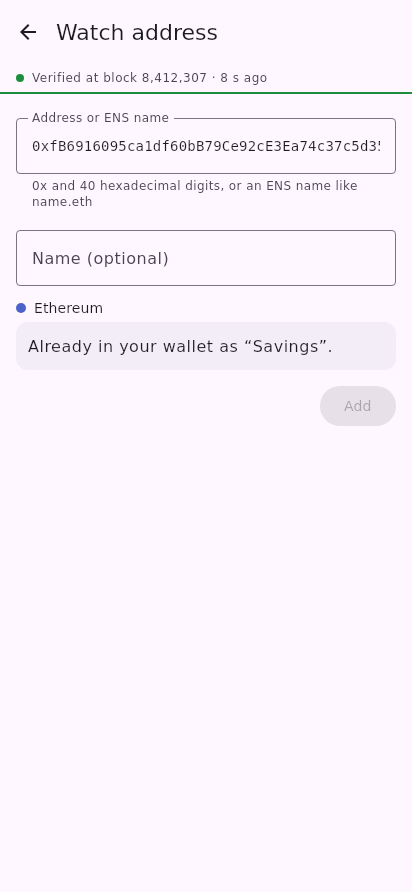
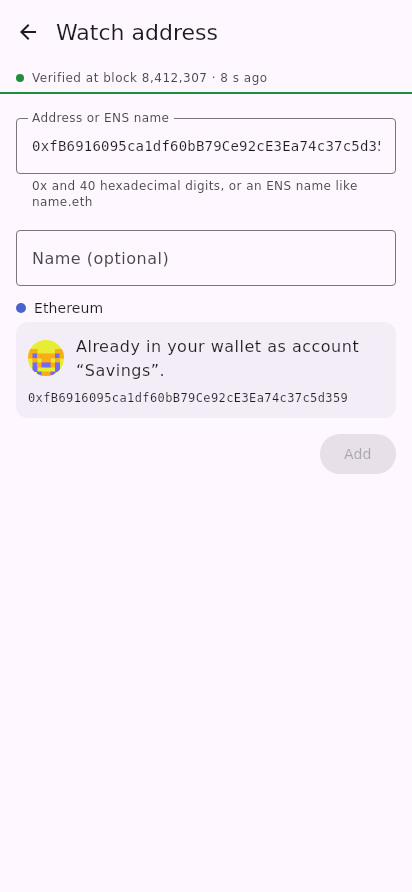
Screenshots: 4 added, 1 changed, 0 removed
Rendered by the Screenshots workflow from c5fe54837879731fa81c471fa319f875c5f10d46. Every other screen draws the same pixels.

Renderer: ubuntu26 20261111.196.1, openjdk version "21.0.13" 2026-10-20 LTS

Changed region(s): [[0.0583, 0.3632, 0.8738, 0.454], [0.8447, 0.454, 0.9029, 0.5146]]

diff --git a/docs/screenshots/index.html b/docs/screenshots/index.html
@@ -71,7 +71,7 @@ figcaption { font: .75rem/1.3 monospace; text-align: center; word-break: break-w
 </div>
 </section>
 <section id="accounts">
-<h2>Accounts <small>accounts/ · 35 states</small></h2>
+<h2>Accounts <small>accounts/ · 37 states</small></h2>
 <div class="shots">
 <figure><a href="accounts/accounts.png"><img src="accounts/accounts.png" loading="lazy" alt="accounts"></a><figcaption>accounts</figcaption></figure>
 <figure><a href="accounts/accounts-dark.png"><img src="accounts/accounts-dark.png" loading="lazy" alt="accounts-dark"></a><figcaption>accounts-dark</figcaption></figure>
@@ -79,6 +79,8 @@ figcaption { font: .75rem/1.3 monospace; text-align: center; word-break: break-w
 <figure><a href="accounts/head-too-old.png"><img src="accounts/head-too-old.png" loading="lazy" alt="head-too-old"></a><figcaption>head-too-old</figcaption></figure>
 <figure><a href="accounts/head-too-old-dark.png"><img src="accounts/head-too-old-dark.png" loading="lazy" alt="head-too-old-dark"></a><figcaption>head-too-old-dark</figcaption></figure>
 <figure><a href="accounts/no-accounts.png"><img src="accounts/no-accounts.png" loading="lazy" alt="no-accounts"></a><figcaption>no-accounts</figcaption></figure>
+<figure><a href="accounts/no-accounts-syncing.png"><img src="accounts/no-accounts-syncing.png" loading="lazy" alt="no-accounts-syncing"></a><figcaption>no-accounts-syncing</figcaption></figure>
+<figure><a href="accounts/no-accounts-syncing-dark.png"><img src="accounts/no-accounts-syncing-dark.png" loading="lazy" alt="no-accounts-syncing-dark"></a><figcaption>no-accounts-syncing-dark</figcaption></figure>
 <figure><a href="accounts/create-safe-greyed-out.png"><img src="accounts/create-safe-greyed-out.png" loading="lazy" alt="create-safe-greyed-out"></a><figcaption>create-safe-greyed-out</figcaption></figure>
 <figure><a href="accounts/create-safe-reason.png"><img src="accounts/create-safe-reason.png" loading="lazy" alt="create-safe-reason"></a><figcaption>create-safe-reason</figcaption></figure>
 <figure><a href="accounts/send-reason.png"><img src="accounts/send-reason.png" loading="lazy" alt="send-reason"></a><figcaption>send-reason</figcaption></figure>
@@ -664,7 +666,7 @@ figcaption { font: .75rem/1.3 monospace; text-align: center; word-break: break-w
 </div>
 </section>
 <section id="simple-accounts">
-<h2>Home (simple mode) <small>simple-accounts/ · 16 states</small></h2>
+<h2>Home (simple mode) <small>simple-accounts/ · 17 states</small></h2>
 <div class="shots">
 <figure><a href="simple-accounts/everyday.png"><img src="simple-accounts/everyday.png" loading="lazy" alt="everyday"></a><figcaption>everyday</figcaption></figure>
 <figure><a href="simple-accounts/everyday-dark.png"><img src="simple-accounts/everyday-dark.png" loading="lazy" alt="everyday-dark"></a><figcaption>everyday-dark</figcaption></figure>
@@ -674,6 +676,7 @@ figcaption { font: .75rem/1.3 monospace; text-align: center; word-break: break-w
 <figure><a href="simple-accounts/live.png"><img src="simple-accounts/live.png" loading="lazy" alt="live"></a><figcaption>live</figcaption></figure>
 <figure><a href="simple-accounts/stale-anchor.png"><img src="simple-accounts/stale-anchor.png" loading="lazy" alt="stale-anchor"></a><figcaption>stale-anchor</figcaption></figure>
 <figure><a href="simple-accounts/empty.png"><img src="simple-accounts/empty.png" loading="lazy" alt="empty"></a><figcaption>empty</figcaption></figure>
+<figure><a href="simple-accounts/empty-syncing.png"><img src="simple-accounts/empty-syncing.png" loading="lazy" alt="empty-syncing"></a><figcaption>empty-syncing</figcaption></figure>
 <figure><a href="simple-accounts/loading.png"><img src="simple-accounts/loading.png" loading="lazy" alt="loading"></a><figcaption>loading</figcaption></figure>
 <figure><a href="simple-accounts/set-aside.png"><img src="simple-accounts/set-aside.png" loading="lazy" alt="set-aside"></a><figcaption>set-aside</figcaption></figure>
 <figure><a href="simple-accounts/list-unavailable.png"><img src="simple-accounts/list-unavailable.png" loading="lazy" alt="list-unavailable"></a><figcaption>list-unavailable</figcaption></figure>
@@ -961,7 +964,7 @@ figcaption { font: .75rem/1.3 monospace; text-align: center; word-break: break-w
 </div>
 </section>
 <section id="watch">
-<h2>Watch address <small>watch/ · 25 states</small></h2>
+<h2>Watch address <small>watch/ · 26 states</small></h2>
 <div class="shots">
 <figure><a href="watch/empty.png"><img src="watch/empty.png" loading="lazy" alt="empty"></a><figcaption>empty</figcaption></figure>
 <figure><a href="watch/checking.png"><img src="watch/checking.png" loading="lazy" alt="checking"></a><figcaption>checking</figcaption></figure>
@@ -988,6 +991,7 @@ figcaption { font: .75rem/1.3 monospace; text-align: center; word-break: break-w
 <figure><a href="watch/choose-networks.png"><img src="watch/choose-networks.png" loading="lazy" alt="choose-networks"></a><figcaption>choose-networks</figcaption></figure>
 <figure><a href="watch/safe-on-one-network.png"><img src="watch/safe-on-one-network.png" loading="lazy" alt="safe-on-one-network"></a><figcaption>safe-on-one-network</figcaption></figure>
 <figure><a href="watch/no-network.png"><img src="watch/no-network.png" loading="lazy" alt="no-network"></a><figcaption>no-network</figcaption></figure>
+<figure><a href="watch/in-wallet-on-two-networks.png"><img src="watch/in-wallet-on-two-networks.png" loading="lazy" alt="in-wallet-on-two-networks"></a><figcaption>in-wallet-on-two-networks</figcaption></figure>
 </div>
 </section>
 <section id="widget-pair">

diff --git a/docs/screenshots/README.md b/docs/screenshots/README.md
@@ -11,7 +11,7 @@ If the folder grows too much, there are two levers, both the owner's. Deleting t
 | Screen | Folder | States |
 |---|---|---|
 | [Account detail](#account-detail) | `account-detail/` | 44 |
-| [Accounts](#accounts) | `accounts/` | 35 |
+| [Accounts](#accounts) | `accounts/` | 37 |
 | [Activity detail](#activity-detail) | `activity-detail/` | 11 |
 | [Add on networks (dialog)](#add-on-networks-dialog) | `add-on-networks-dialog/` | 5 |
 | [Add token](#add-token) | `add-token/` | 11 |
@@ -41,7 +41,7 @@ If the folder grows too much, there are two levers, both the owner's. Deleting t
 | [Send](#send) | `send/` | 32 |
 | [Settings](#settings) | `settings/` | 28 |
 | [Account detail (simple mode)](#simple-account-detail) | `simple-account-detail/` | 12 |
-| [Home (simple mode)](#simple-accounts) | `simple-accounts/` | 16 |
+| [Home (simple mode)](#simple-accounts) | `simple-accounts/` | 17 |
 | [Activity detail (simple mode)](#simple-activity-detail) | `simple-activity-detail/` | 4 |
 | [Add token (simple mode)](#simple-add-token) | `simple-add-token/` | 2 |
 | [CoW order (simple mode)](#simple-cow-order) | `simple-cow-order/` | 3 |
@@ -61,7 +61,7 @@ If the folder grows too much, there are two levers, both the owner's. Deleting t
 | [Tokens](#tokens) | `tokens/` | 7 |
 | [Transfer status](#transfer-status) | `transfer-status/` | 36 |
 | [Update required](#update-required) | `update-required/` | 2 |
-| [Watch address](#watch) | `watch/` | 25 |
+| [Watch address](#watch) | `watch/` | 26 |
 | [Widget setup](#widget-pair) | `widget-pair/` | 9 |
 
 <a name="account-detail"></a>
@@ -117,7 +117,7 @@ If the folder grows too much, there are two levers, both the owner's. Deleting t
 <a name="accounts"></a>
 ## Accounts
 
-`accounts/`, 35 states: `accounts`, `accounts-dark`, `catching-up`, `head-too-old`, `head-too-old-dark`, `no-accounts`, `create-safe-greyed-out`, `create-safe-reason`, `send-reason`, `loading`, `loading-create-safe-greyed-out`, `list-set-aside`, `upgrade-ahead`, `upgrade-activated-dark`, `list-unavailable`, `catching-up-dark`, `narrow`, `ens-names`, `three-networks`, `three-networks-dark`, `one-network-catching-up`, `network-off`, `network-off-dark`, `send-needs-network`, `network-blocked`, `no-rate-on-a-network`, `network-blocked-dark`, `stale-anchor`, `stale-anchor-dark`, `stale-anchor-dialog`, `hidden`, `hidden-dark`, `queued`, `queued-dark`, `lost-queued`
+`accounts/`, 37 states: `accounts`, `accounts-dark`, `catching-up`, `head-too-old`, `head-too-old-dark`, `no-accounts`, `no-accounts-syncing`, `no-accounts-syncing-dark`, `create-safe-greyed-out`, `create-safe-reason`, `send-reason`, `loading`, `loading-create-safe-greyed-out`, `list-set-aside`, `upgrade-ahead`, `upgrade-activated-dark`, `list-unavailable`, `catching-up-dark`, `narrow`, `ens-names`, `three-networks`, `three-networks-dark`, `one-network-catching-up`, `network-off`, `network-off-dark`, `send-needs-network`, `network-blocked`, `no-rate-on-a-network`, `network-blocked-dark`, `stale-anchor`, `stale-anchor-dark`, `stale-anchor-dialog`, `hidden`, `hidden-dark`, `queued`, `queued-dark`, `lost-queued`
 
 <a href="accounts/accounts.png"><img src="accounts/accounts.png" width="206" alt="accounts"></a>
 <a href="accounts/accounts-dark.png"><img src="accounts/accounts-dark.png" width="206" alt="accounts-dark"></a>
@@ -125,6 +125,8 @@ If the folder grows too much, there are two levers, both the owner's. Deleting t
 <a href="accounts/head-too-old.png"><img src="accounts/head-too-old.png" width="206" alt="head-too-old"></a>
 <a href="accounts/head-too-old-dark.png"><img src="accounts/head-too-old-dark.png" width="206" alt="head-too-old-dark"></a>
 <a href="accounts/no-accounts.png"><img src="accounts/no-accounts.png" width="206" alt="no-accounts"></a>
+<a href="accounts/no-accounts-syncing.png"><img src="accounts/no-accounts-syncing.png" width="206" alt="no-accounts-syncing"></a>
+<a href="accounts/no-accounts-syncing-dark.png"><img src="accounts/no-accounts-syncing-dark.png" width="206" alt="no-accounts-syncing-dark"></a>
 <a href="accounts/create-safe-greyed-out.png"><img src="accounts/create-safe-greyed-out.png" width="206" alt="create-safe-greyed-out"></a>
 <a href="accounts/create-safe-reason.png"><img src="accounts/create-safe-reason.png" width="206" alt="create-safe-reason"></a>
 <a href="accounts/send-reason.png"><img src="accounts/send-reason.png" width="206" alt="send-reason"></a>
@@ -740,7 +742,7 @@ If the folder grows too much, there are two levers, both the owner's. Deleting t
 <a name="simple-accounts"></a>
 ## Home (simple mode)
 
-`simple-accounts/`, 16 states: `everyday`, `everyday-dark`, `refreshing`, `syncing`, `unreachable`, `live`, `stale-anchor`, `empty`, `loading`, `set-aside`, `list-unavailable`, `hidden`, `hidden-dark`, `queued`, `queued-dark`, `lost-queued`
+`simple-accounts/`, 17 states: `everyday`, `everyday-dark`, `refreshing`, `syncing`, `unreachable`, `live`, `stale-anchor`, `empty`, `empty-syncing`, `loading`, `set-aside`, `list-unavailable`, `hidden`, `hidden-dark`, `queued`, `queued-dark`, `lost-queued`
 
 <a href="simple-accounts/everyday.png"><img src="simple-accounts/everyday.png" width="206" alt="everyday"></a>
 <a href="simple-accounts/everyday-dark.png"><img src="simple-accounts/everyday-dark.png" width="206" alt="everyday-dark"></a>
@@ -750,6 +752,7 @@ If the folder grows too much, there are two levers, both the owner's. Deleting t
 <a href="simple-accounts/live.png"><img src="simple-accounts/live.png" width="206" alt="live"></a>
 <a href="simple-accounts/stale-anchor.png"><img src="simple-accounts/stale-anchor.png" width="206" alt="stale-anchor"></a>
 <a href="simple-accounts/empty.png"><img src="simple-accounts/empty.png" width="206" alt="empty"></a>
+<a href="simple-accounts/empty-syncing.png"><img src="simple-accounts/empty-syncing.png" width="206" alt="empty-syncing"></a>
 <a href="simple-accounts/loading.png"><img src="simple-accounts/loading.png" width="206" alt="loading"></a>
 <a href="simple-accounts/set-aside.png"><img src="simple-accounts/set-aside.png" width="206" alt="set-aside"></a>
 <a href="simple-accounts/list-unavailable.png"><img src="simple-accounts/list-unavailable.png" width="206" alt="list-unavailable"></a>
@@ -1057,7 +1060,7 @@ If the folder grows too much, there are two levers, both the owner's. Deleting t
 <a name="watch"></a>
 ## Watch address
 
-`watch/`, 25 states: `empty`, `checking`, `account`, `account-dark`, `delegated-account`, `safe`, `not-a-safe`, `in-wallet`, `unavailable`, `invalid-address`, `name-too-long`, `gnosis-no-names`, `adding`, `not-saved`, `resolving-name`, `name-resolved`, `name-on-one-registry`, `name-unverified-on-one-registry`, `name-moved`, `name-unavailable`, `name-resolved-no-name`, `every-network`, `choose-networks`, `safe-on-one-network`, `no-network`
+`watch/`, 26 states: `empty`, `checking`, `account`, `account-dark`, `delegated-account`, `safe`, `not-a-safe`, `in-wallet`, `unavailable`, `invalid-address`, `name-too-long`, `gnosis-no-names`, `adding`, `not-saved`, `resolving-name`, `name-resolved`, `name-on-one-registry`, `name-unverified-on-one-registry`, `name-moved`, `name-unavailable`, `name-resolved-no-name`, `every-network`, `choose-networks`, `safe-on-one-network`, `no-network`, `in-wallet-on-two-networks`
 
 <a href="watch/empty.png"><img src="watch/empty.png" width="206" alt="empty"></a>
 <a href="watch/checking.png"><img src="watch/checking.png" width="206" alt="checking"></a>
@@ -1084,6 +1087,7 @@ If the folder grows too much, there are two levers, both the owner's. Deleting t
 <a href="watch/choose-networks.png"><img src="watch/choose-networks.png" width="206" alt="choose-networks"></a>
 <a href="watch/safe-on-one-network.png"><img src="watch/safe-on-one-network.png" width="206" alt="safe-on-one-network"></a>
 <a href="watch/no-network.png"><img src="watch/no-network.png" width="206" alt="no-network"></a>
+<a href="watch/in-wallet-on-two-networks.png"><img src="watch/in-wallet-on-two-networks.png" width="206" alt="in-wallet-on-two-networks"></a>
 
 <a name="widget-pair"></a>
 ## Widget setup
